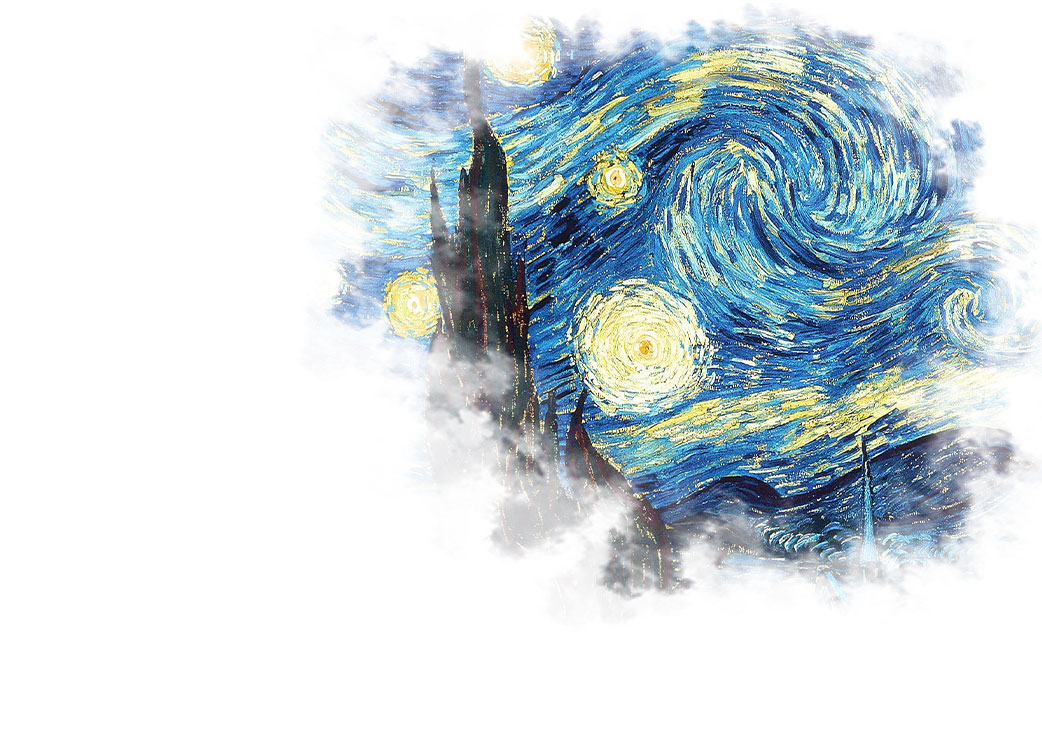
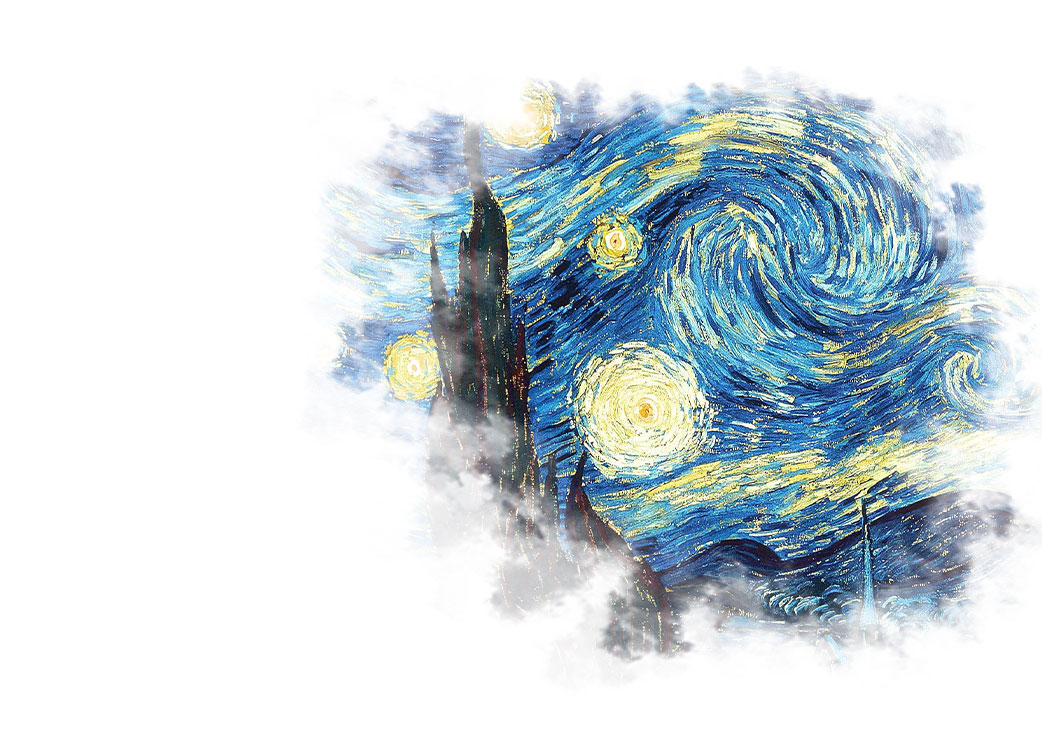
upload

diff --git a/chloe_gunter_vanGogh/about.html b/chloe_gunter_vanGogh/about.html
@@ -60,32 +60,30 @@
             Van Gogh's father became the pastor of the Dutch Reformed Church in Nuenen in 1882, and Van Gogh lived with his parents at the vicarage in Nuenen from December 1883 to May 1885. During this time, he made a number of paintings of the local peasants, including The Potato Eaters, and also paintings of the church.</figcaption>
     </figure>
 
-<div>
-    <section class="exhibit_details flex">
-        <figure>
-          <img src="images/exhibit_details_home.jpg" alt="Exhibit Image1">
-          <img src="images/exhibit_details2_home.jpg" alt="Exhibit Image2">
-        </figure>
-        <figure class="exhibit_details_text flex">
-          <div>
-            <h1>Exhibit Details</h1>
-            <h3>DURATION</h3>
-            <p>The visit will take around one hour.</p>
-            <h3>LOCATION</h3>
-            <p>Wyland Center at Del Mar Fairgrounds:2260 Jimmy Durante Blvd, Del Mar, CA 92014</p>
-            <h3>HEALTH AND SAFETY</h3>
-            <p>Beyond Van Gogh is a walk-through exhibition that allows for 6ft distance between all attendees, and includes increased cleaning practices. Safety of the attendees is our top priority as we continue to follow the advice of public health agencies and government officials.</p>
-            <h2 class="more_button"><a href="pages/about.html#exhibit_details">MORE    <i class="fas fa-arrow-right"></i></a></h2>
-          </div>
-          <div>
-            <img src="images/exhibit_details3_home.jpg" alt="Exhibit Image3">
-          </div>
+    <div class="exhibit_details flex">
+      <figure>
+        <img src="images/exhibit_details_home.jpg" alt="Exhibit Image1">
+        <img src="images/exhibit_details2_home.jpg" alt="Exhibit Image2">
       </figure>
-        </section>
-</div>
+      <section class="exhibit_details_text flex">
+        <div>
+          <h1>Exhibit Details</h1>
+          <h3>DURATION</h3>
+          <p>The visit will take around one hour.</p>
+          <h3>LOCATION</h3>
+          <p>Wyland Center at Del Mar Fairgrounds:2260 Jimmy Durante Blvd, Del Mar, CA 92014</p>
+          <h3>HEALTH AND SAFETY</h3>
+          <p>Beyond Van Gogh is a walk-through exhibition that allows for 6ft distance between all attendees, and includes increased cleaning practices. Safety of the attendees is our top priority as we continue to follow the advice of public health agencies and government officials.</p>
+          <h2 class="more_button"><a href="pages/about.html#exhibit_details">MORE    <i class="fas fa-arrow-right"></i></a></h2>
+        </div>
+        <div>
+          <img src="images/exhibit_details3_home.jpg" alt="Exhibit Image3">
+        </div>
+      </section>
+    </div>
 
 <footer class="flex">
-  <a href="index.html"><img src="images/logo_grey.png" alt="logo"></a>
+  <a href="index.html"><img src="images/logo_white.png" alt="logo"></a>
   <section class="flex">
     <figure>
       <h1>Contact Us</h1>

diff --git a/chloe_gunter_vanGogh/css/style.css b/chloe_gunter_vanGogh/css/style.css
@@ -634,7 +634,7 @@ div.copyright {
 }
 .dabout section.hero .wrap {  
 	float: right;
-	shape-outside: polygon(22% 11%, 46% 0, 100% 0, 100% 100%, 63% 100%, 43% 90%, 33% 68%, 22% 41%);
+	shape-outside: polygon(17.00% 21.40%, 41% -2px, 100% 0px, 99.5% 94.8%, 63% 94.4%, 44.5% 86.4%, 33% 68%, 14.5% 45.8%);
 	width: 200px;
 	height: 250px;
   }
